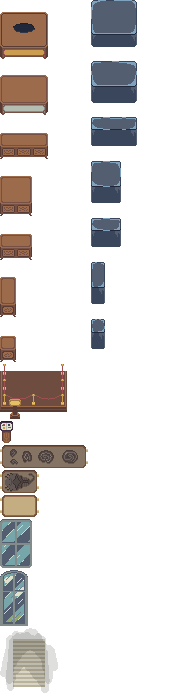
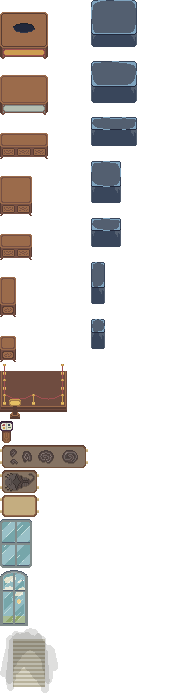
Museum cases: glass drawn as multiply at 39% as set in the file (window glass baked with screen blend); museum collision from a picture: walkable steps and door pocket, solid walls and columns, free to walk around the sides; collision culling uses a solid's own edges
Claude-Session: https://claude.ai/code/session_01Xiux81LEqjvUithNNjQsjc

Changed region(s): [[0.0, 0.7252, 0.1667, 0.9065]]

diff --git a/js/art.js b/js/art.js
@@ -111,8 +111,20 @@ function buildSprites() {
   if (ASSET.img.furnace) { const im = ASSET.img.furnace, sh = ASSET.img.furnace_shadow, frames = []; for (let f = 0; f < 5; f++) { const c = mk(48, 72); c.g.drawImage(im, f * 48, 0, 48, 72, 0, 0, 48, 72); c.ax = 24; c.ay = 72; frames.push(c); } const s = mk(sh.width, sh.height); s.g.drawImage(sh, 0, 0); s.ax = 24; s.ay = 72; frames.forEach(c => c.shadow = s); SPR.furnace = frames; }   // the furnace: five frames of flicker and smoke, one shadow
   if (ASSET.img.campfire) { const im = ASSET.img.campfire; SPR.campfire = [0, 1, 2, 3].map(f => { const c = mk(16, 22); c.g.drawImage(im, f * 16, 0, 16, 22, 0, 0, 16, 22); c.ax = 8; c.ay = 21; return c; }); }   // a placeholder campfire: four flame frames (swap the picture for your own any time)
   if (typeof lightInit === 'function') lightInit();
-  if (ASSET.img.museum_building) { const mc = im => { const c = mk(im.width, im.height); c.g.drawImage(im, 0, 0); c.ax = 107; c.ay = 167; return c; }; const b = mc(ASSET.img.museum_building); b.door = mc(ASSET.img.museum_door); b.sign = mc(ASSET.img.museum_sign); SPR.museum = b; }   // the museum from outside: building, doors and hanging banner (same size and origin; anchored at the bottom middle of the steps)
-  if (ASSET.img.museum_props && ASSET.mProps) { SPR.mprop = {}; for (const n in ASSET.mProps) { const d = ASSET.mProps[n], c = cut(ASSET.img.museum_props, { x: d.sx, y: d.sy, w: d.w, h: d.h }); c.ax = d.ax; c.ay = d.ay; if (d.over) { c.over = cut(ASSET.img.museum_props, { x: d.ox, y: d.sy, w: d.w, h: d.h }); } SPR.mprop[n] = c; } }   // things inside the museum: cases, stage, board, wall panels, windows
+  if (ASSET.img.museum_building) { const mc = im => { const c = mk(im.width, im.height); c.g.drawImage(im, 0, 0); c.ax = 107; c.ay = 167; return c; }; const b = mc(ASSET.img.museum_building); b.door = mc(ASSET.img.museum_door); b.sign = mc(ASSET.img.museum_sign); SPR.museum = b;
+    if (ASSET.img.museum_col) {   // the collision picture becomes a list of boxes (merged rows), relative to the building's anchor
+      const im = ASSET.img.museum_col, cc = mk(im.width, im.height); cc.g.drawImage(im, 0, 0); const d = cc.g.getImageData(0, 0, im.width, im.height).data, rows = [];
+      for (let y = 0; y < im.height; y++) { const runs = []; let s = -1; for (let x = 0; x <= im.width; x++) { const on = x < im.width && d[(y * im.width + x) * 4 + 3] > 8; if (on && s < 0) s = x; if (!on && s >= 0) { runs.push([s, x - s]); s = -1; } } rows.push(runs); }
+      b.col = []; let open = []; const key = r => r.join(',');
+      for (let y = 0; y <= im.height; y++) { const runs = y < im.height ? rows[y] : [], cur = []; for (const r of runs) { const k = r[0] + ':' + r[1], f = open.find(o => o.k === k); cur.push(f ? f : { k, x: r[0], w: r[1], y0: y }); } for (const o of open) if (!cur.includes(o)) b.col.push([o.x - 107, o.y0 - 167, o.w, y - o.y0]); open = cur; }
+    }
+  }   // the museum from outside: building, doors and hanging banner (same size and origin; anchored at the bottom middle of the steps)
+  if (ASSET.img.museum_props && ASSET.mProps) { SPR.mprop = {}; for (const n in ASSET.mProps) { const d = ASSET.mProps[n], c = cut(ASSET.img.museum_props, { x: d.sx, y: d.sy, w: d.w, h: d.h }); c.ax = d.ax; c.ay = d.ay; if (d.over) { c.over = cut(ASSET.img.museum_props, { x: d.ox, y: d.sy, w: d.w, h: d.h }); c.overA = d.overAlpha == null ? 1 : d.overAlpha; c.overM = d.overBlend || 'normal';
+      if (c.overM === 'multiply') {   // multiply needs something under it: where the case itself is under the glass it is multiplied as it is; where only the floor is, the same multiply is worked out once against the marble's colour
+        const w = c.width, h = c.height, bd = c.g.getImageData(0, 0, w, h).data, gd = c.over.g.getImageData(0, 0, w, h), ob = mk(w, h), og = mk(w, h), oi = ob.g.createImageData(w, h), gi = og.g.createImageData(w, h), F = [209, 205, 191];
+        for (let i = 0; i < w * h * 4; i += 4) { const a = gd.data[i + 3]; if (!a) continue; if (bd[i + 3] > 8) { oi.data[i] = gd.data[i]; oi.data[i + 1] = gd.data[i + 1]; oi.data[i + 2] = gd.data[i + 2]; oi.data[i + 3] = a; } else { gi.data[i] = F[0] * gd.data[i] / 255; gi.data[i + 1] = F[1] * gd.data[i + 1] / 255; gi.data[i + 2] = F[2] * gd.data[i + 2] / 255; gi.data[i + 3] = a; } }
+        ob.g.putImageData(oi, 0, 0); og.g.putImageData(gi, 0, 0); c.overB = ob; c.overG = og;
+      } } SPR.mprop[n] = c; } }   // things inside the museum: cases, stage, board, wall panels, windows
   SPR.decor = {}; const D = ASSET.decor, dm = ASSET.img.decor;   // flowers, bushes, rocks and pebbles: anchored at their bottom centre
   if (D && dm) for (const n in D) { const c = cut(dm, D[n]); c.ax = D[n].ax; c.ay = D[n].ay; SPR.decor[n] = c; }
   SPR.leaves = []; const lm = ASSET.img.leaves;   // falling leaf: 4 frames x 3 variants, 5x5 cells

diff --git a/js/assets.js b/js/assets.js
@@ -6,7 +6,7 @@ const ASSET = { img: {}, props: null, ok: false };
 
 const HAIR_STYLES = ['default'];   // ids of the hair sheets in assets/chars/hair_<id>.png; 'none' (bald) is always available
 function loadAssets(cb) {
-  const list = { hero_uv: 'assets/chars/hero_uv.png', dig_sheet: 'assets/chars/dig_sheet.png', items: 'assets/props/items.png', workbench: 'assets/props/workbench.png', museum_building: 'assets/props/museum_building.png', museum_door: 'assets/props/museum_door.png', museum_sign: 'assets/props/museum_sign.png', museum_tiles: 'assets/museum/tileset.png', museum_props: 'assets/museum/props.png', campfire: 'assets/props/campfire.png', anvil: 'assets/props/anvil.png', anvil_bump: 'assets/props/anvil_bump.png', hammer_bump: 'assets/props/hammer_bump.png', furnace_bump: 'assets/props/furnace_bump.png', workbench_bump: 'assets/props/workbench_bump.png', shop_stall_bump: 'assets/props/shop_stall_bump.png', shop_merchant_bump: 'assets/props/shop_merchant_bump.png', anvil_shadow: 'assets/props/anvil_shadow.png', hammer: 'assets/props/hammer.png', hammer_shadow: 'assets/props/hammer_shadow.png', furnace: 'assets/props/furnace.png', furnace_shadow: 'assets/props/furnace_shadow.png', workbench_shadow: 'assets/props/workbench_shadow.png', shop_stall: 'assets/props/shop_stall.png', shop_merchant: 'assets/props/shop_merchant.png', shop_shadow: 'assets/props/shop_shadow.png', icon_log: 'assets/ui/icon_log.png', icon_brush: 'assets/ui/icon_brush.png', icon_bag: 'assets/ui/icon_bag.png', portrait: 'assets/ui/portrait.png', icon_mattock: 'assets/ui/icon_mattock.png', hero_skin: 'assets/chars/hero_skin.png', fills: 'assets/tiles/fills.png', tree: 'assets/props/tree.png', decor: 'assets/props/decor.png', leaves: 'assets/props/leaves.png', grass_tiles: 'assets/tiles/grass.png', sand_tiles: 'assets/tiles/sand.png', dirt_tiles: 'assets/tiles/dirt.png', grass_variants: 'assets/tiles/grass_variants.png', sand_variants: 'assets/tiles/sand_variants.png', dirt_variants: 'assets/tiles/dirt_variants.png' };
+  const list = { hero_uv: 'assets/chars/hero_uv.png', dig_sheet: 'assets/chars/dig_sheet.png', items: 'assets/props/items.png', workbench: 'assets/props/workbench.png', museum_building: 'assets/props/museum_building.png', museum_door: 'assets/props/museum_door.png', museum_sign: 'assets/props/museum_sign.png', museum_col: 'assets/props/museum_col.png', museum_tiles: 'assets/museum/tileset.png', museum_props: 'assets/museum/props.png', campfire: 'assets/props/campfire.png', anvil: 'assets/props/anvil.png', anvil_bump: 'assets/props/anvil_bump.png', hammer_bump: 'assets/props/hammer_bump.png', furnace_bump: 'assets/props/furnace_bump.png', workbench_bump: 'assets/props/workbench_bump.png', shop_stall_bump: 'assets/props/shop_stall_bump.png', shop_merchant_bump: 'assets/props/shop_merchant_bump.png', anvil_shadow: 'assets/props/anvil_shadow.png', hammer: 'assets/props/hammer.png', hammer_shadow: 'assets/props/hammer_shadow.png', furnace: 'assets/props/furnace.png', furnace_shadow: 'assets/props/furnace_shadow.png', workbench_shadow: 'assets/props/workbench_shadow.png', shop_stall: 'assets/props/shop_stall.png', shop_merchant: 'assets/props/shop_merchant.png', shop_shadow: 'assets/props/shop_shadow.png', icon_log: 'assets/ui/icon_log.png', icon_brush: 'assets/ui/icon_brush.png', icon_bag: 'assets/ui/icon_bag.png', portrait: 'assets/ui/portrait.png', icon_mattock: 'assets/ui/icon_mattock.png', hero_skin: 'assets/chars/hero_skin.png', fills: 'assets/tiles/fills.png', tree: 'assets/props/tree.png', decor: 'assets/props/decor.png', leaves: 'assets/props/leaves.png', grass_tiles: 'assets/tiles/grass.png', sand_tiles: 'assets/tiles/sand.png', dirt_tiles: 'assets/tiles/dirt.png', grass_variants: 'assets/tiles/grass_variants.png', sand_variants: 'assets/tiles/sand_variants.png', dirt_variants: 'assets/tiles/dirt_variants.png' };
   for (const id of HAIR_STYLES) list['hair_' + id] = 'assets/chars/hair_' + id + '.png';   // hair styles: one sheet each (see tools/make_hero_sheet.py)
   let left = Object.keys(list).length + 6; const failed = [];
   const total = left, done = () => { loadProgress(0.7 * (1 - --left / total)); if (left === 0) { ASSET.ok = !failed.length; cb(failed); } };

diff --git a/js/world.js b/js/world.js
@@ -214,7 +214,7 @@ function validMap(m) {
   return m.tiles.length === h && m.tiles.every(r => typeof r === 'string' && r.length === w);
 }
 
-const SOLIDS = { museum: [[-100, -26, 200, 26]], camp: [[-26, -8, 52, 8], 20], shop: [[-24, -9, 48, 9], 22], bench: [[-14, -6, 28, 6], 22], campfire: [[-6, -3, 12, 3]], anvil: [[-9, -4, 18, 4], 22], hammer: [[-2, -2, 4, 2]], furnace: [[-20, -9, 40, 9], 22], tree: [[-3, -4, 6, 4]] };   // collision boxes (and press range) of the things still in the game; add entries here for new objects
+const SOLIDS = { camp: [[-26, -8, 52, 8], 20], shop: [[-24, -9, 48, 9], 22], bench: [[-14, -6, 28, 6], 22], campfire: [[-6, -3, 12, 3]], anvil: [[-9, -4, 18, 4], 22], hammer: [[-2, -2, 4, 2]], furnace: [[-20, -9, 40, 9], 22], tree: [[-3, -4, 6, 4]] };   // collision boxes (and press range) of the things still in the game; add entries here for new objects
 function instantiate(s) {
   let o;
   switch (s.k) {
@@ -237,6 +237,7 @@ function instantiate(s) {
   o.x = s.x; o.y = s.y; o.src = s;
   if (sd) { o.box = sd[0]; if (sd[1]) o.ia = sd[1]; }
   W.objs.push(o); if (o.box) W.solids.push(o);
+  if (o.k === 'museum' && o.spr.col) for (const b of o.spr.col) W.solids.push({ k: 'museum', x: o.x, y: o.y, box: b });   // the museum's walls and columns, from its collision picture
 }
 function rebuildObjects() {
   W.objs = []; W.solids = []; W.trees = []; W.bushes = []; W.lamps = []; W.fires = []; W.glows = []; W.patches = []; 
@@ -326,8 +327,7 @@ function blockedAt(x, y, hw = 3, hh = 3, wade = false) {   // wade: you can walk
   if (wade !== 'stone' && zmax - zmin > 0.55) return true;   // a step in the ground (the wall of a pit) can't be walked over; ramps rise gently enough
   const x0 = x - hw, x1 = x + hw, y0 = y - hh, y1 = y;
   for (const o of W.solids) {
-    if (Math.abs(o.x - x) > 40 || Math.abs(o.y - y) > 30) continue;
-    const bx = o.x + o.box[0], by = o.y + o.box[1];
+    const bx = o.x + o.box[0], by = o.y + o.box[1]; if (x < bx - 16 || x > bx + o.box[2] + 16 || y < by - 16 || y > by + o.box[3] + 16) continue;   // only the solids near you (judged by their own edges, so a wide building is not skipped)
     if (x1 > bx && x0 < bx + o.box[2] && y1 > by && y0 < by + o.box[3]) return true;
   }
   return false;

diff --git a/js/game.js b/js/game.js
@@ -267,7 +267,11 @@ function drawEnt(o, cx, cy, now) {
       const fa = o.k === 'tree' ? 1 : behindAlpha(o); if (fa < 1) g.globalAlpha = fa;
       const zo = o.pz > 0.02 ? Math.round(o.pz * PIT_U) : 0; if (zo) { g.save(); const ry = rimY(o.x, o.y); if (ry != null) { g.beginPath(); g.rect(o.x - cx - 40, -1000, 80, ry - cy + 1000); g.clip(); } g.translate(0, zo); }   // a stone that has dropped into a pit is drawn lower, and the higher ground in front hides its bottom
       if (o.ang) { const q = Math.round(o.ang / 1.5708) & 3, w = spr.width, h = spr.height; g.save(); g.translate(Math.round(o.x - cx), Math.round(o.y - cy) - h / 2); g.rotate(q * Math.PI / 2); g.drawImage(spr, -w / 2, -h / 2); g.restore(); } else if (Math.abs(o.lean) > 0.04) { const px = Math.round(o.x - spr.ax - cx), py = Math.round(o.y - spr.ay - cy), H = spr.height; for (let r = 0; r < H; r += 2) g.drawImage(spr, 0, r, spr.width, Math.min(2, H - r), px + Math.round(o.lean * Math.pow(1 - (r + 1) / H, 1.5) * 3), py + r, spr.width, Math.min(2, H - r)); } else if (o.sq > 0.02) { const sw = Math.round(spr.width * (1 + 0.14 * o.sq)), sh = Math.round(spr.height * (1 - 0.32 * o.sq)); g.drawImage(spr, Math.round(o.x - cx - spr.ax * sw / spr.width), Math.round(o.y - cy - spr.ay * sh / spr.height), sw, sh); } else g.drawImage(spr, Math.round(o.x - spr.ax - cx), Math.round(o.y - spr.ay - cy)); g.globalAlpha = 1;
-      if (o.k === 'mprop' && spr.over) g.drawImage(spr.over, Math.round(o.x - spr.ax - cx), Math.round(o.y - spr.ay - cy));   // a case's glass goes over what is in it
+      if (o.k === 'mprop' && spr.over) {
+        const qx = Math.round(o.x - spr.ax - cx), qy = Math.round(o.y - spr.ay - cy); g.globalAlpha = spr.overA;
+        if (spr.overB) { g.drawImage(spr.overG, qx, qy); g.globalCompositeOperation = 'multiply'; g.drawImage(spr.overB, qx, qy); g.globalCompositeOperation = 'source-over'; } else g.drawImage(spr.over, qx, qy);
+        g.globalAlpha = 1;
+      }   // a case's glass goes over what is in it, as you set it in the file: multiply at 39%
       if (zo) g.restore();
       if (spr.nrm) litProp(o, spr, Math.round(o.x - spr.ax - cx), Math.round(o.y - spr.ay - cy), fa);   // sun shading and point lights on props that have a bump map
     }

diff --git a/js/dig.js b/js/dig.js
@@ -69,7 +69,7 @@ function findTarget() {
   };
   for (const o of W.objs) {
     if (Math.abs(o.x - px) > 60 || Math.abs(o.y - py) > 60) continue;
-    if (o.k === 'museum') { if (Math.abs(px - o.x) < 26 && py > o.y - 8 && py < o.y + 22) consider('museum', o, o.x, o.y - 10, Math.hypot(px - o.x, py - (o.y + 2)) * 0.5, 40, -14); continue; }   // the door is in the middle of the steps
+    if (o.k === 'museum') { if (Math.abs(px - o.x) < 24 && py > o.y - 40 && py < o.y + 8) consider('museum', o, o.x, o.y - 30, Math.hypot(px - o.x, py - (o.y - 22)) * 0.5, 40, -14); continue; }   // the door is in the middle of the steps
     if (SHOPK.includes(o.k)) { const bd = distToBox(px, py, o), bx = o.x - px, by = o.y - 4 - py, bl = Math.hypot(bx, by) || 1; if (bd < 6 || (bx / bl * fv[0] + by / bl * fv[1]) > 0.1) consider(o.k, o, o.x, o.y, bd, o.ia, -14); }   // a station you are close to and facing wins over the ground beside it
   }
   let sb = null;   // the dig spot: the site tile just in front of you

diff --git a/tools/museum_export.py b/tools/museum_export.py
@@ -21,7 +21,7 @@ def read(path):
     for _ in range(n):
         csz, ct = struct.unpack_from('<IH', d, p); b = p + 6
         if ct == 0x2004:
-            f, t, l = struct.unpack_from('<HHH', d, b); nl = struct.unpack_from('<H', d, b + 16)[0]; layers.append({'flags': f, 'type': t, 'lv': l, 'name': d[b + 18:b + 18 + nl].decode()})
+            f, t, l = struct.unpack_from('<HHH', d, b); bm, op = struct.unpack_from('<HB', d, b + 10); nl = struct.unpack_from('<H', d, b + 16)[0]; layers.append({'flags': f, 'type': t, 'lv': l, 'blend': bm, 'opacity': op, 'name': d[b + 18:b + 18 + nl].decode()})   # blend: 0 normal, 1 multiply, 2 screen
         elif ct == 0x2005:
             li, x, y, op, ctype, z = struct.unpack_from('<HhhBHh', d, b); w, h = struct.unpack_from('<HH', d, b + 16)
             if ctype in (0, 2):
@@ -32,12 +32,29 @@ def read(path):
 
 # ---------------------------------------------------------------------------------------------------------------- exterior
 W, H, L, I = read('tools/src/Museum_exterior.aseprite')
-def stack(imgs, ids, W, H):
+def stack(imgs, ids, W, H, L=None):   # layers over each other; with L given, each layer's own blend mode (multiply, screen) and opacity are applied
     o = Image.new('RGBA', (W, H))
-    for i in ids: o.alpha_composite(imgs[i])
+    for i in ids:
+        mode = L[i]['blend'] if L else 0; op = (L[i]['opacity'] / 255) if L else 1
+        if mode in (1, 2):
+            from PIL import ImageChops
+            top = imgs[i]; bl = (ImageChops.multiply if mode == 1 else ImageChops.screen)(o.convert('RGB'), top.convert('RGB')); m = top.getchannel('A').point(lambda v: round(v * op))
+            res = Image.composite(bl, o.convert('RGB'), m).convert('RGBA'); res.putalpha(Image.eval(ImageChops.lighter(o.getchannel('A'), m), lambda v: v)); o = res
+        elif op < 1: t = imgs[i].copy(); t.putalpha(t.getchannel('A').point(lambda v: round(v * op))); o.alpha_composite(t)
+        else: o.alpha_composite(imgs[i])
     return o
 # 5 base and steps, 8 column shading, 9 columns, 10 frieze, 11 roof, 12 pediment, 14 and 15 the roof's louvres, 7 doors, 16 banner, 17 its lettering. 18 is a flattened copy of everything.
 stack(I, [5, 8, 9, 10, 11, 12, 14, 15], W, H).save('assets/props/museum_building.png'); I[7].save('assets/props/museum_door.png'); stack(I, [16, 17], W, H).save('assets/props/museum_sign.png')
+# collision: paint a layer called "Collision" (any colour, anything solid) in Museum_exterior.aseprite and that is what blocks you. Without one, a default is made:
+# the whole building and its porch are solid, from the wall down to the front of the columns, except the pocket in front of the doors; the steps in front stay walkable.
+col = [i for i, l in enumerate(L) if l['name'].strip().lower() in ('collision', 'collisions', 'col') and i in I]
+if col: cm = Image.new('RGBA', (W, H)); [cm.alpha_composite(I[i]) for i in col]; print('collision layer found:', cm.getbbox())
+else:
+    cm = Image.new('RGBA', (W, H)); px = cm.load()
+    for (x0, y0, x1, y1) in ((8, 100, 89, 148), (125, 100, 207, 148), (89, 100, 125, 134)):
+        for y in range(y0, y1):
+            for x in range(x0, x1): px[x, y] = (255, 0, 0, 255)
+cm.save('assets/props/museum_col.png')
 print('exterior', W, H, 'door bbox', I[7].getbbox(), 'sign bbox', stack(I, [16, 17], W, H).getbbox())
 
 # ---------------------------------------------------------------------------------------------------------------- interior
@@ -81,15 +98,18 @@ walk = list(range(n_plain, len(tset)))
 json.dump({'size': 16, 'cols': COLS, 'count': len(tset), 'floor_from': n_plain, 'walk': walk, 'note': 'ids below floor_from are wall, frame and void; from floor_from on, each 4 ids are the quarters (TL, TR, BL, BR) of one 32x32 marble tile'}, open('assets/museum/tileset.json', 'w'), indent=1)
 
 # props: cut each piece to its bounding box, pack into one sheet, remember where it stood in the room
-def piece(ids): im = stack(S, ids, W, H); return im, im.getbbox()
+def piece(ids, blend=False): im = stack(S, ids, W, H, L if blend else None); return im, im.getbbox()
 PROPS = {  # name: (base layers, over layers (drawn after what stands inside), kind)
     'case_3x3': ([65, 66], [67]), 'case_3x2': ([69], [70]), 'case_3x1': ([72], [73]), 'case_2x2': ([75], [76]), 'case_2x1': ([78], [79]), 'case_1x2': ([81], [82]), 'case_1x1': ([84], [87]),
     'stage': ([89, 90, 91], []), 'board': ([92], []), 'panel_fossils': ([99, 100], []), 'panel_scorpion': ([96, 97], []), 'plaque': ([94], []),
     'window_rect': ([60, 61, 62], []), 'window_arch': ([57, 58, 59], []), 'alcove': ([2], [])}
 sheet = []; meta = {}; x = 0; objs = []
 for name, (base, over) in PROPS.items():
-    bi, bb = piece(base); oi, ob = piece(over) if over else (None, None); boxes = [b for b in (bb, ob) if b]; x0, y0, x1, y1 = min(b[0] for b in boxes), min(b[1] for b in boxes), max(b[2] for b in boxes), max(b[3] for b in boxes)
-    meta[name] = {'w': x1 - x0, 'h': y1 - y0, 'ax': (x1 - x0) // 2, 'ay': y1 - y0, 'over': bool(over)}; sheet.append((name, bi.crop((x0, y0, x1, y1)), oi.crop((x0, y0, x1, y1)) if oi else None))
+    bi, bb = piece(base, name.startswith('window')); oi, ob = piece(over) if over else (None, None);   # window glass is baked in with its screen blend; a case's glass stays a separate picture, multiplied on top when it is drawn
+    gl = L[over[0]] if over else None; boxes = [b for b in (bb, ob) if b]; x0, y0, x1, y1 = min(b[0] for b in boxes), min(b[1] for b in boxes), max(b[2] for b in boxes), max(b[3] for b in boxes)
+    meta[name] = {'w': x1 - x0, 'h': y1 - y0, 'ax': (x1 - x0) // 2, 'ay': y1 - y0, 'over': bool(over)}
+    if gl: meta[name]['overBlend'] = {0: 'normal', 1: 'multiply', 2: 'screen'}.get(gl['blend'], 'normal'); meta[name]['overAlpha'] = round(gl['opacity'] / 255, 3);   # your glass layers: multiply at 39%
+    sheet.append((name, bi.crop((x0, y0, x1, y1)), oi.crop((x0, y0, x1, y1)) if oi else None))
     objs.append({'k': 'mprop', 'n': name, 'x': (x0 + x1) // 2, 'y': y1})
 SW = max(m['w'] for m in meta.values()) + 2; SH = sum(m['h'] + 2 for m in meta.values()) * 2
 sp = Image.new('RGBA', (SW * 2, SH // 2 + 4)); y = 0
